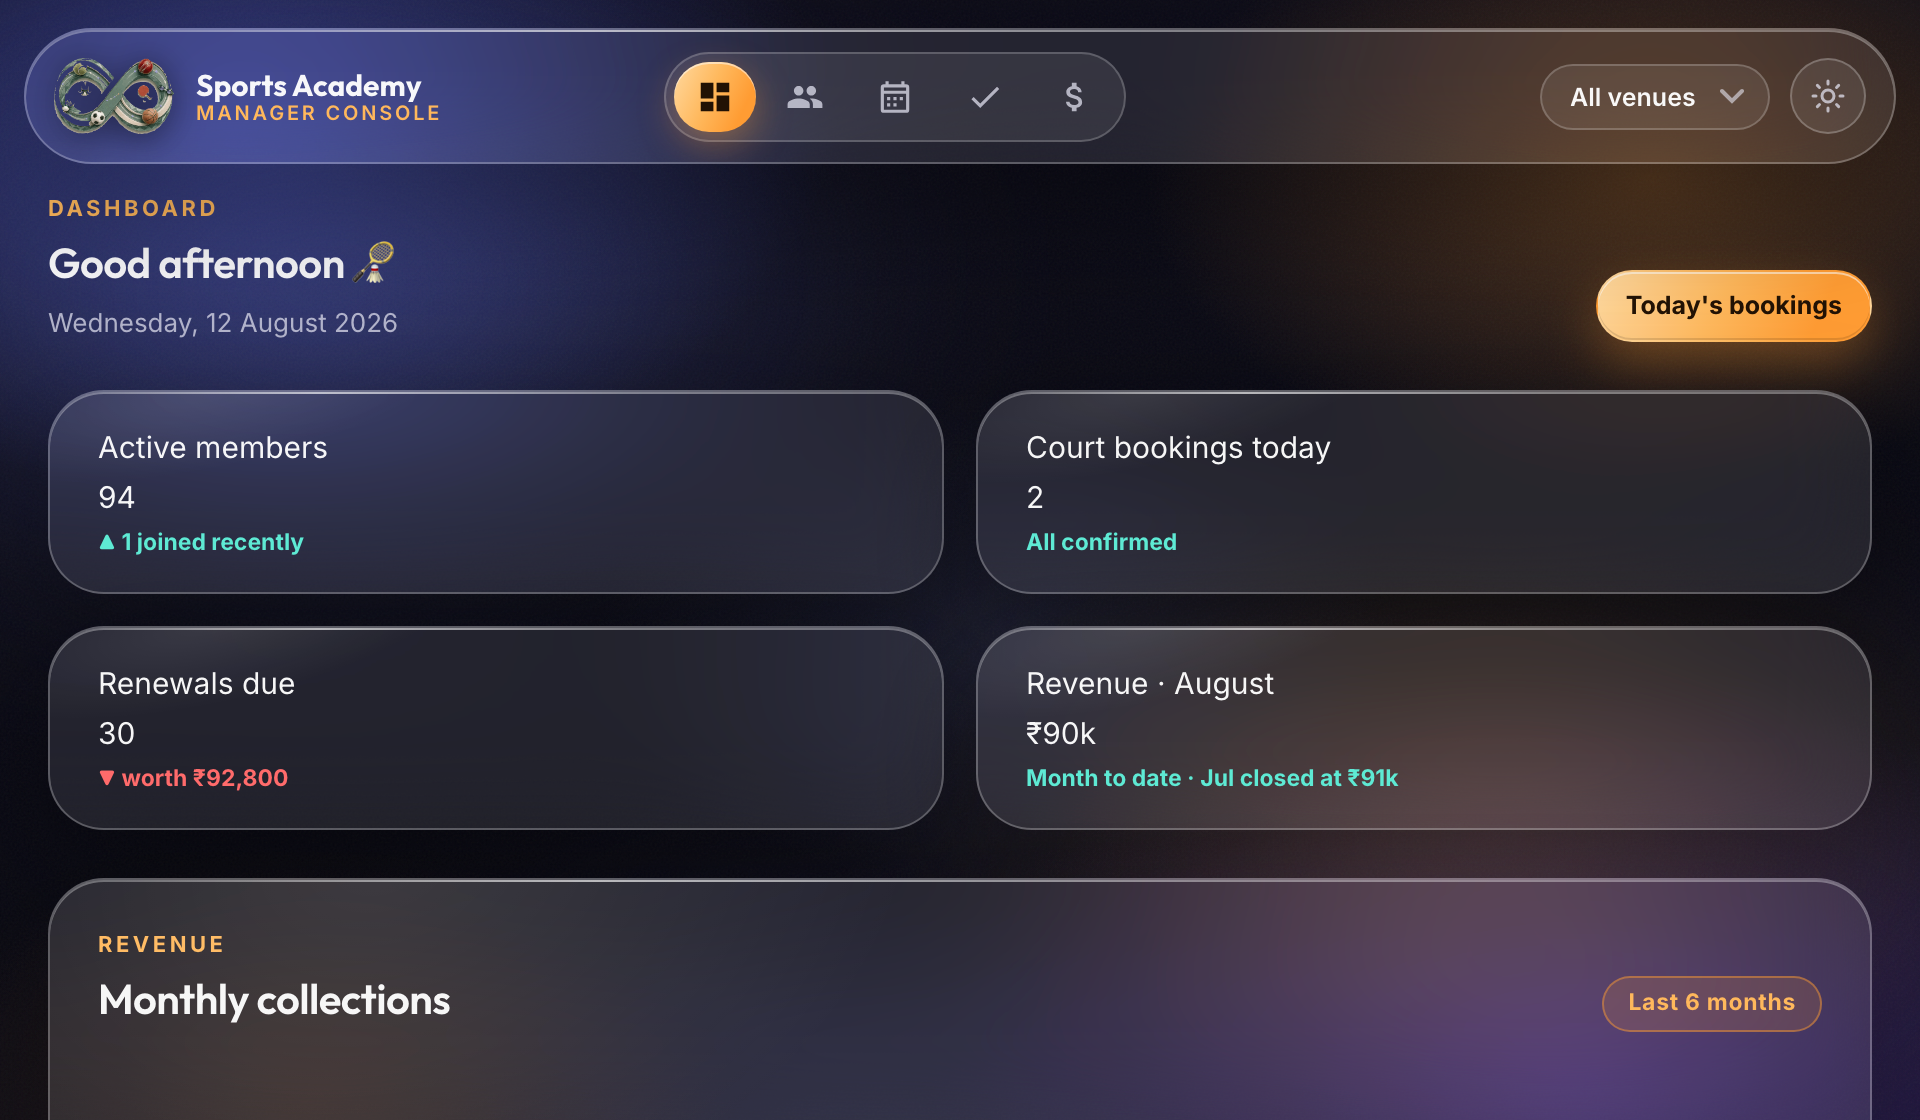
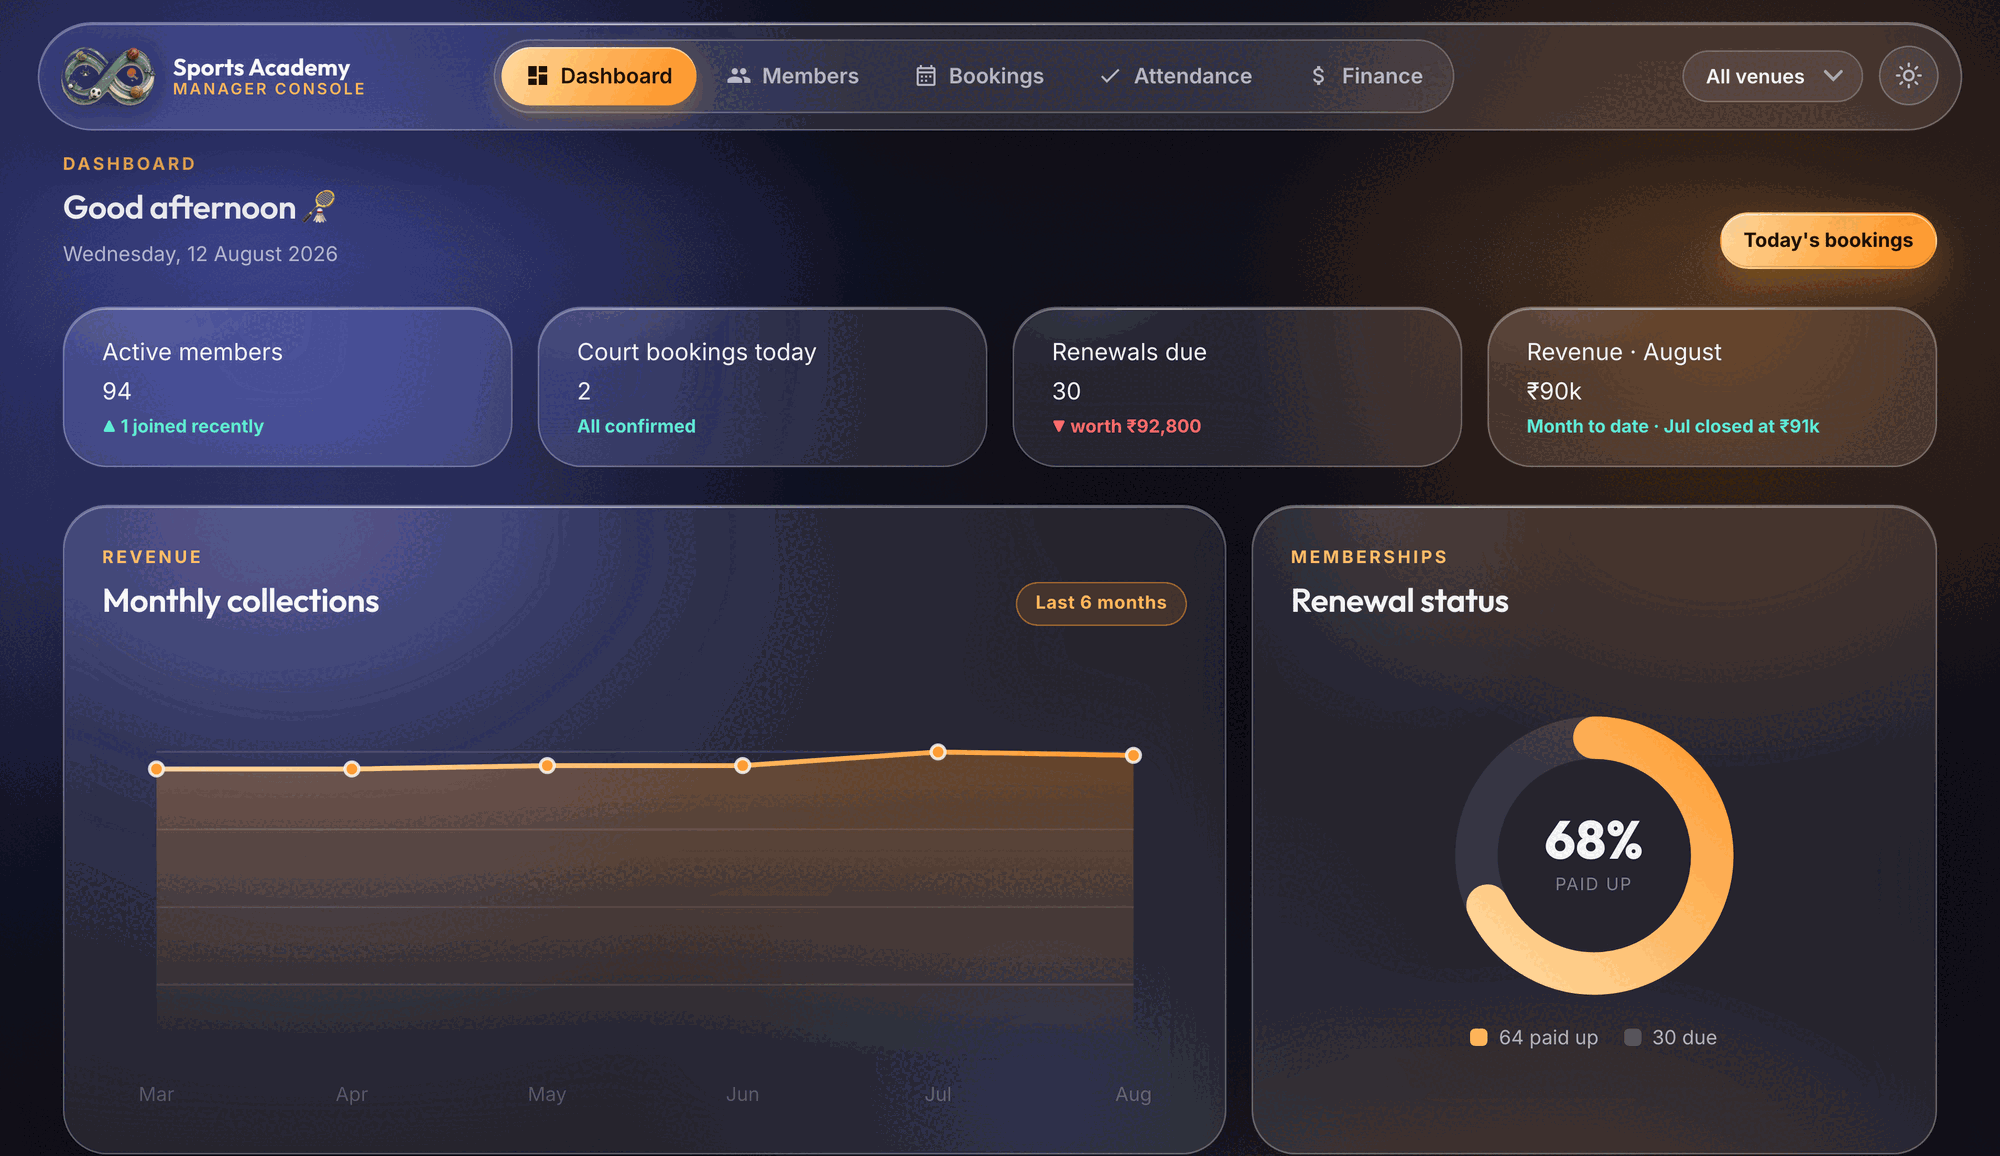
Arm-B image: fit the frame to content, 4K master plus send-ready sizes

diff --git a/scripts/shoot-arm-b.js b/scripts/shoot-arm-b.js
@@ -33,14 +33,40 @@ const { chromium } = require("playwright");
 const path = require("path");
 
 const URL = "https://sujittarun.github.io/AcademyManagerDemo/dashboard.html";
+/* Target ~3840 device px wide (true 4K). But the viewport width is chosen to
+ * MATCH the layout's content width, not fixed at 1920 — at 1920 the app
+ * centres its container and leaves ~600px of empty gradient on either side,
+ * which on a phone shrinks the numbers to nothing. Measure the container,
+ * fit the frame to it, then scale up to reach 4K. */
+const TARGET_PX = 3840;
+const PROBE_W = 1600;
 const OUT = process.argv[2] ||
   path.join(__dirname, "..", "marketing", "leads", "dashboard-dues.png");
 
 (async () => {
   const browser = await chromium.launch();
+  // Probe pass: how wide is the content actually laid out?
+  const probe = await browser.newPage({ viewport: { width: PROBE_W, height: 1400 } });
+  await probe.goto(URL, { waitUntil: "networkidle" });
+  await probe.waitForTimeout(1200);
+  const contentW = await probe.evaluate(() => {
+    const els = [...document.querySelectorAll(".lt-page > *, main > *, .lt-nav")];
+    let min = Infinity, max = 0;
+    els.forEach((e) => {
+      const r = e.getBoundingClientRect();
+      if (r.width < 60 || r.height < 20) return;
+      min = Math.min(min, r.left); max = Math.max(max, r.right);
+    });
+    return max > min ? Math.ceil(max - min) + 48 : null;   // + a little breathing room
+  });
+  await probe.close();
+
+  const cssW = Math.max(900, Math.min(contentW || 1320, PROBE_W));
+  const scale = Math.max(2, Math.round((TARGET_PX / cssW) * 10) / 10);
+
   const page = await browser.newPage({
-    viewport: { width: 960, height: 640 },
-    deviceScaleFactor: 2,          // retina, so the image is crisp on a phone
+    viewport: { width: cssW, height: 1400 },
+    deviceScaleFactor: scale,
   });
 
   await page.goto(URL, { waitUntil: "networkidle" });
@@ -90,20 +116,49 @@ const OUT = process.argv[2] ||
     throw new Error("no dues to show — reminder_queue returned nothing");
   }
 
-  // The KPI block plus the first sliver of the chart. Clipped rather than
-  // full-page: the whole page is mostly chart, and the tiles are the point.
-  await page.waitForTimeout(400);
-  await page.screenshot({
-    path: OUT,
-    clip: { x: 0, y: 0, width: 960, height: 560 },
+  /* Clip from the top down to — but NOT including — "Recent activity".
+   *
+   * A full-page shot was tempting: more on screen, more convincing. But
+   * probing the page found the activity feed and a "₹9,975" figure below the
+   * donut come from LT_DATA, not demo_snapshot. Mixing real and seed numbers
+   * in one image is the same failure as the Finance screen, just subtler —
+   * and the feed prints member names, which nothing sent to a prospect
+   * should.
+   *
+   * Everything above it is Postgres-backed: the four tiles, the six-month
+   * collections chart, and the renewal donut. The boundary is measured from
+   * the DOM rather than hardcoded, so a layout change cannot silently pull
+   * the seed section into frame. */
+  const cut = await page.evaluate(() => {
+    const cards = [...document.querySelectorAll("section, .card, div")];
+    const feed = cards.find(el => /RECENT ACTIVITY|LATEST/i.test(el.innerText || "") &&
+                                  el.getBoundingClientRect().height < 900);
+    if (!feed) return null;
+    const r = feed.getBoundingClientRect();
+    return Math.max(0, Math.round(r.top + window.scrollY) - 24);
   });
+  if (!cut || cut < 500) {
+    throw new Error(`could not locate the seed activity feed to clip above ` +
+                    `(got ${cut}) — refusing to shoot the whole page`);
+  }
 
-  // And prove no personal data made it in — the payload has none, but the
-  // page could in principle render some.
-  const leaked = await page.evaluate(() => {
-    const t = document.body.innerText;
-    return /\b[6-9]\d{9}\b/.test(t) ? "a 10-digit phone number is on screen" : null;
-  });
+  await page.waitForTimeout(400);
+  await page.screenshot({ path: OUT, clip: { x: 0, y: 0, width: cssW, height: cut } });
+
+  // Prove no personal data is inside the CLIPPED region. Checking the whole
+  // page would be the wrong test: names below the cut are irrelevant, and a
+  // phone number above it would be fatal.
+  const leaked = await page.evaluate((cutY) => {
+    const bad = [];
+    document.querySelectorAll("body *").forEach((el) => {
+      if (el.children.length) return;                 // leaf nodes only
+      const r = el.getBoundingClientRect();
+      if (r.top + window.scrollY > cutY) return;      // below the crop
+      const t = (el.innerText || "").trim();
+      if (/\b[6-9]\d{9}\b/.test(t)) bad.push("phone: " + t.slice(0, 40));
+    });
+    return bad.length ? bad.join("; ") : null;
+  }, cut);
   await browser.close();
   if (leaked) throw new Error("refusing to save: " + leaked);
 
@@ -111,5 +166,14 @@ const OUT = process.argv[2] ||
   console.log(`  ${figures.members} members · ${figures.dues} renewals due ` +
               `worth ₹${Number(figures.amount).toLocaleString("en-IN")} ` +
               `· ₹${figures.rev}k this month`);
+  console.log(`  ${cssW}px layout at ${scale}x = ${Math.round(cssW * scale)}px wide`);
   console.log("  reshoot when the month changes or after demo_reset('rebuild')");
+  console.log("");
+  console.log("  then make the send-ready sizes (WhatsApp recompresses anyway):");
+  console.log("    cd marketing/leads");
+  console.log("    cp dashboard-dues.png dashboard-dues-4k.png");
+  console.log("    magick dashboard-dues-4k.png -resize 1600x -strip -quality 88 \\");
+  console.log("      dashboard-dues-whatsapp.jpg      # ~130KB, this is what you send");
+  console.log("    magick dashboard-dues-4k.png -resize 2000x -strip -colors 200 \\");
+  console.log("      dashboard-dues.png               # ~340KB, for decks and docs");
 })();

diff --git a/marketing/leads/ARM-B-IMAGE.md b/marketing/leads/ARM-B-IMAGE.md
@@ -59,6 +59,14 @@ added to `package.json`. If `node` cannot find it:
 NODE_PATH=<scratchpad>/shotter/node_modules node AcademyManager/scripts/shoot-arm-b.js
 ```
 
+## Three sizes, and which to send
+
+| file | size | use |
+|---|---|---|
+| `dashboard-dues-whatsapp.jpg` | 1600px, ~130KB | **send this one.** WhatsApp recompresses to roughly this anyway; starting smaller means it uploads instantly on mobile data |
+| `dashboard-dues.png` | 2000px, ~340KB | decks, docs, email |
+| `dashboard-dues-4k.png` | 3816px, ~4.2MB | the master. Do not attach it to a chat |
+
 ## What the shot should show
 
 Verified live on 2026-08-12:
@@ -66,9 +74,21 @@ Verified live on 2026-08-12:
 | | |
 |---|---|
 | Active members | **94** |
-| Court bookings today | 2 |
+| Court bookings today | varies (live) |
 | **Renewals due** | **30 · worth ₹92,800** |
 | Revenue · August | ₹90k · Jul closed at ₹91k |
+| Renewal status | **68% paid up · 64 paid up / 30 due** |
+
+The frame is fitted to the app's content width rather than a fixed 1920 —
+at 1920 the layout centres itself and leaves ~600px of empty gradient each
+side, which on a phone shrinks the numbers to nothing. The script measures
+the container and scales to reach ~4K.
+
+It stops above "Recent activity": that section and a `₹9,975` figure below
+the donut come from `LT_DATA`, not `demo_snapshot()`, and the feed prints
+member names. Mixing real and seed numbers in one image is the Finance-page
+mistake in miniature. The cut is measured from the DOM, so a layout change
+cannot pull it into frame.
 
 "Renewals due 30 · worth ₹92,800" is the line that does the work — it is
 the pain the opener just asked about, and the amount comes from
